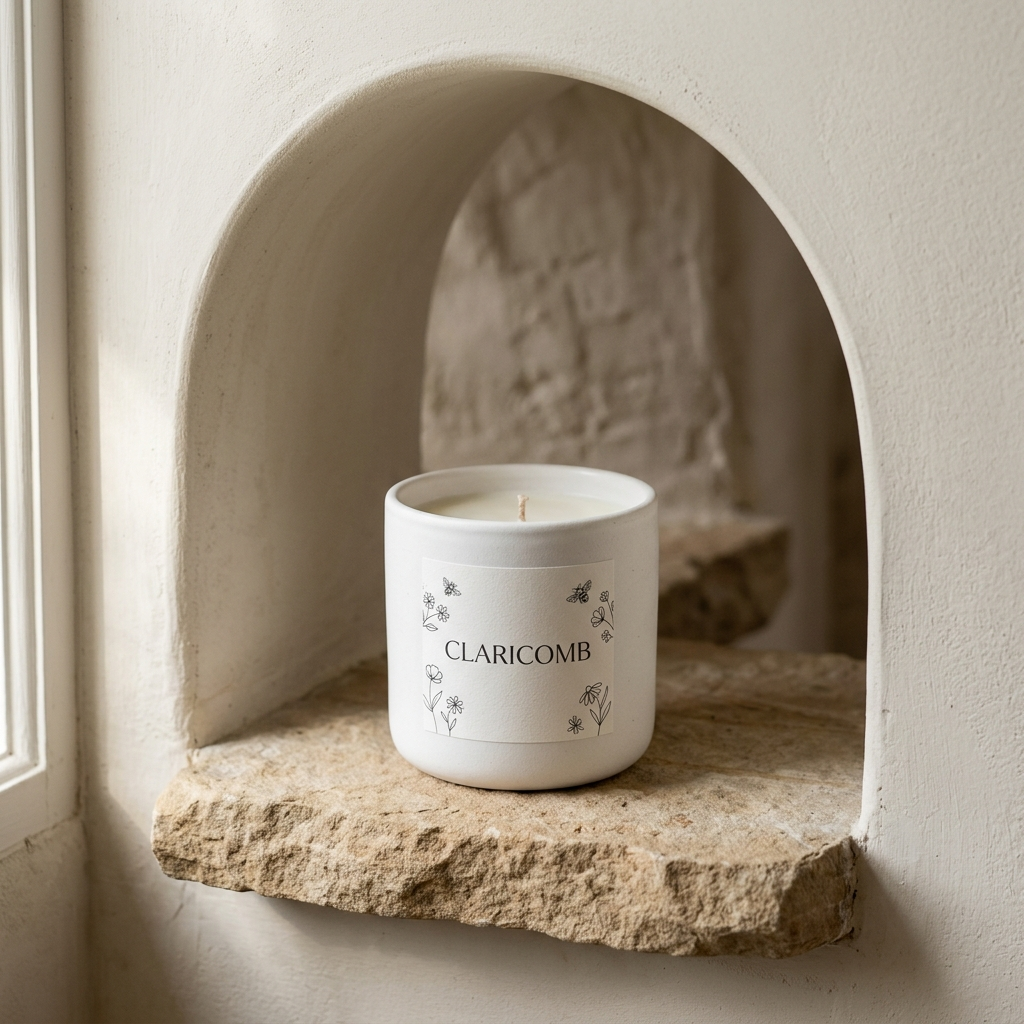
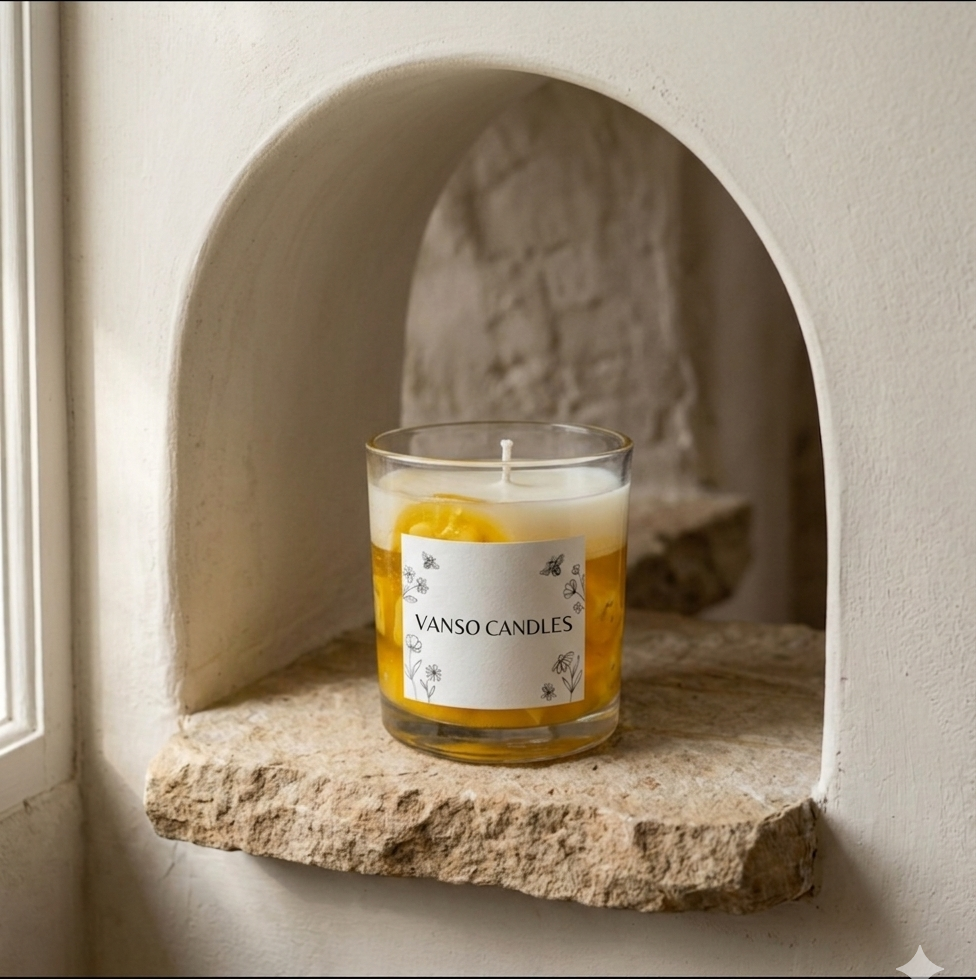
images update

diff --git a/src/components/Header.jsx b/src/components/Header.jsx
@@ -43,7 +43,7 @@ export default function Header() {
             {/* Brand Logo */}
             <Link href="/" className="group flex flex-col justify-center">
               <span className="font-serif text-2xl font-semibold tracking-widest text-[#2C1810] group-hover:text-espresso transition-colors duration-300">
-                Aura & Wick
+                Venso Candles
               </span>
               <span className="text-[9px] tracking-[0.25em] text-stone-400 uppercase font-medium mt-0.5">
                 Handcrafted Serenity
